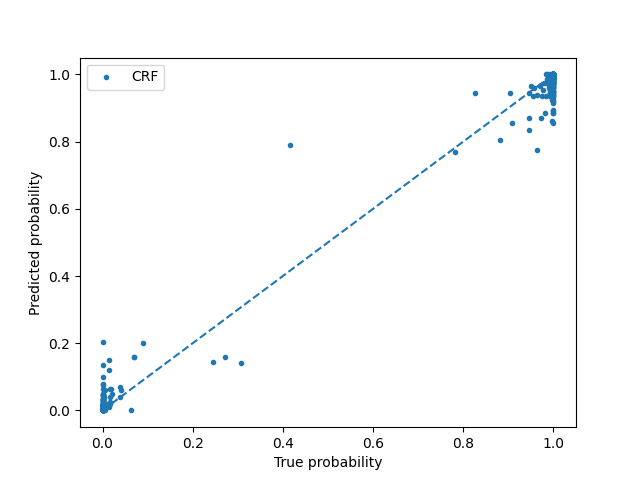
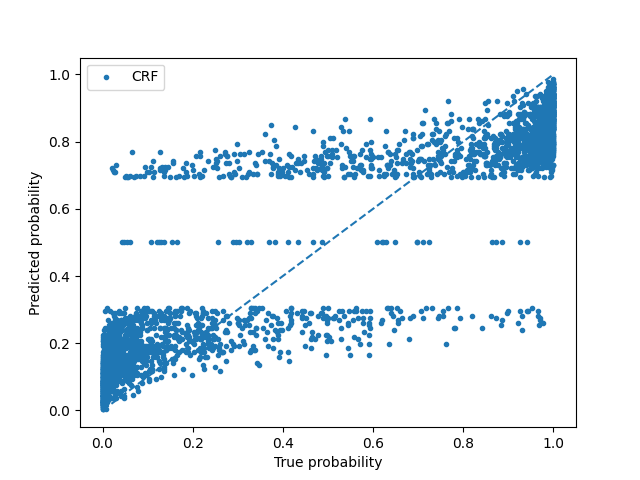
perfect rank calib results. need to fix rank

diff --git a/Synthetic_calib.py b/Synthetic_calib.py
@@ -22,7 +22,7 @@ from sklearn.metrics import mean_squared_error
 from sklearn.metrics import accuracy_score
 from sklearn.metrics import roc_curve, auc
 
-runs = 10
+runs = 1
 n_estimators=100
 
 plot_bins = 10
@@ -32,12 +32,13 @@ test_size = 0.3
 oob = False
 
 plot = True
+save_results = False
 
 results_dict = {}
 
 samples = 10000
-features = 4
-calib_methods = ["RF", "Platt" , "ISO", "Rank", "CRF"]
+features = 40
+calib_methods = ["RF", "Platt" , "ISO", "Rank", "CRF", "p_rank"]
 metrics = ["acc", "auc", "brier", "ece", "tce"]
 
 run_name = "laplace"
@@ -111,6 +112,13 @@ for exp in [0]:#[2,5,10,20,40,80,100]:
         results_dict[data + "_prob"]["Rank"] = rank_p_test
         results_dict[data + "_decision"]["Rank"] = np.argmax(rank_p_test,axis=1)
 
+        # perfect rank + ISO
+        iso_rank = IsotonicRegression(out_of_bounds='clip').fit(tp_calib, y_calib) 
+        rank_p_test = convert_prob_2D(iso_rank.predict(tp_test))
+        results_dict[data + "_prob"]["p_rank"] = rank_p_test
+        results_dict[data + "_decision"]["p_rank"] = np.argmax(rank_p_test,axis=1)
+
+
         # CRF calibrator
         crf_calib = CRF_calib(learning_method="sig_brior").fit(rf_p_calib[:,1], y_calib)
         crf_p_test = crf_calib.predict(rf_p_test[:,1])
@@ -174,6 +182,7 @@ for metric in metrics:
     mean_rank = df_rank.mean()
     df.loc["Mean"] = mean_res
     df.loc["Rank"] = mean_rank
-    df.to_csv(f"./results/Synthetic/{data}_DataCalib_{metric}.csv",index=True)
+    if save_results:
+        df.to_csv(f"./results/Synthetic/{data}_DataCalib_{metric}.csv",index=True)
     print("---------------------------------", metric)
     print(df)

diff --git a/Real_data_calib_test.py b/Real_data_calib_test.py
@@ -76,6 +76,7 @@ for data in data_list:
 
         venn = Venn_calib()
         venn.fit(rf_p_calib, y_calib)
-        probs = venn.predict(rf_p_calib)
+        print("rf_p_test", rf_p_test.shape)
+        probs = venn.predict(rf_p_test)
         
         print(probs)
